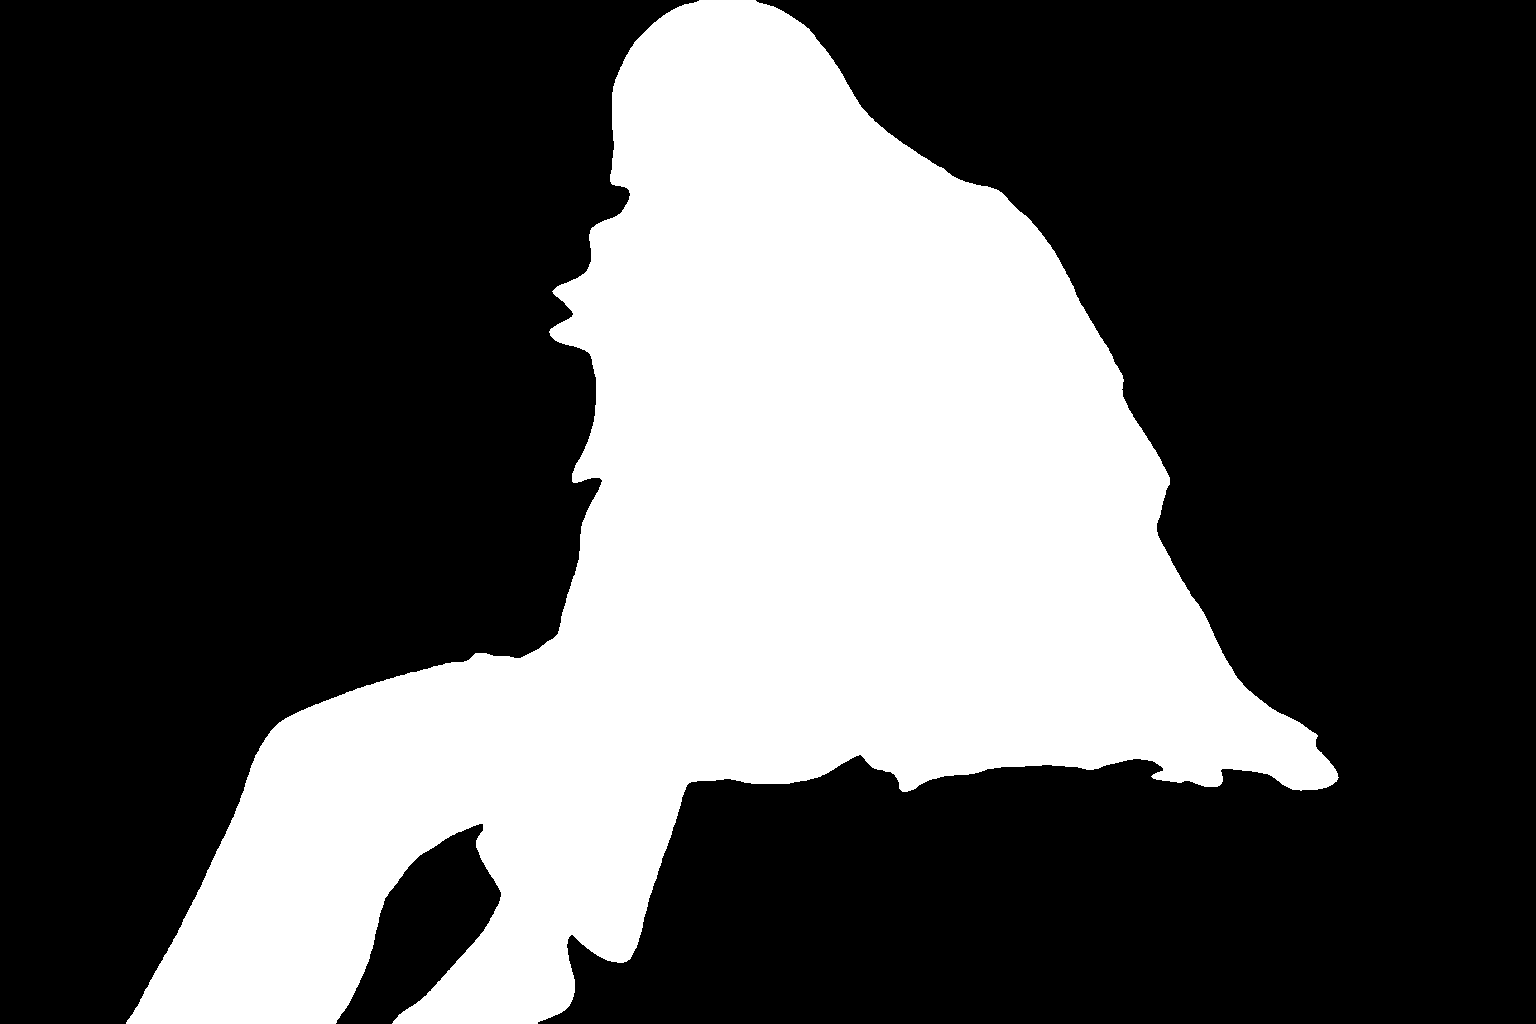
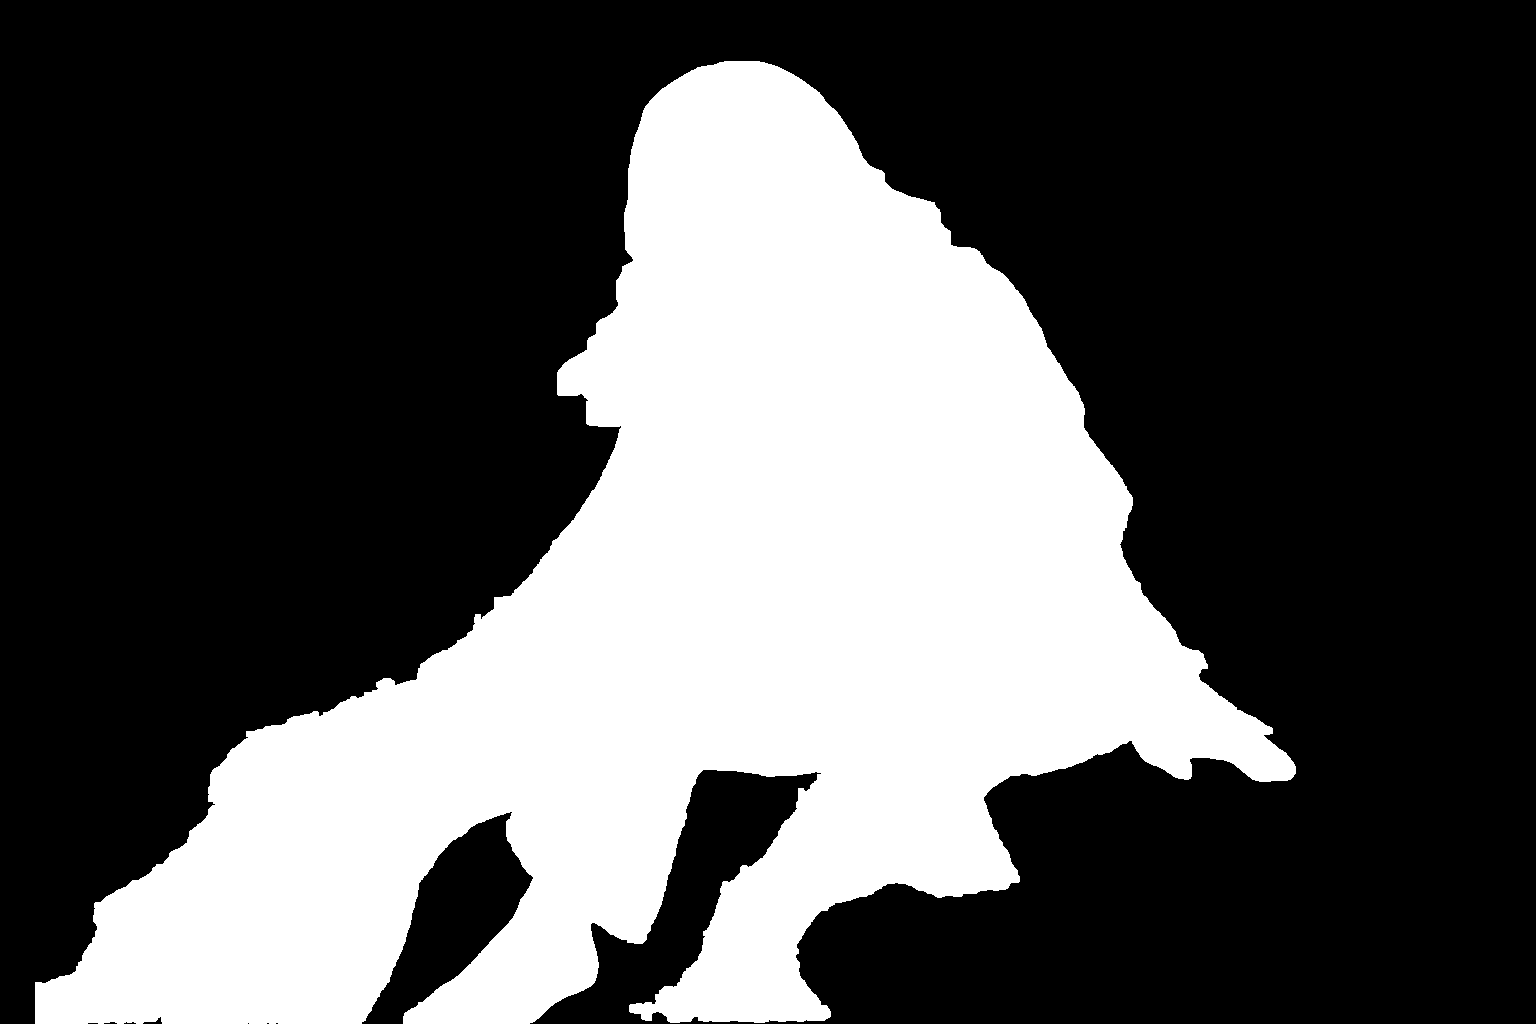
Improve level 19 headroom and align character mask

diff --git a/tests/opening.spec.ts b/tests/opening.spec.ts
@@ -10,9 +10,10 @@ for (const sample of [
   { level: 2, name: 'mummy hair and ears', edge: 26, points: [[740, 50], [710, 130], [850, 145]] },
   { level: 4, name: 'vampire white hair', edge: 14, points: [[520, 100], [570, 65], [615, 110]] },
   { level: 7, name: 'fox ears and hair', edge: 20, points: [[688, 42], [638, 145], [820, 90]] },
+  { level: 19, name: 'star throne figure', edge: 20, points: [[750, 120], [930, 500], [1200, 730], [510, 950]] },
 ]) {
   test(`${sample.name} stays sealed through an adjacent capture, pause and defeat`, async ({ page }) => {
-    await page.addInitScript(() => localStorage.setItem('linkblock.fenglin.levels', JSON.stringify({ version: 3, unlocked: 10, cleared: [] })));
+    await page.addInitScript(() => localStorage.setItem('linkblock.fenglin.levels', JSON.stringify({ version: 3, unlocked: 20, cleared: [] })));
     await page.route('**/src/main.ts*', async route => {
       const response = await route.fetch();
       await route.fulfill({ response, body: `${await response.text()}

diff --git a/src/faces.ts b/src/faces.ts
@@ -26,7 +26,7 @@ export const FACE_REGIONS = {
   'levels/16/v2/restored.webp': { imageWidth: 1536, imageHeight: 1024, x: 800, y: 0, width: 300, height: 300 },
   'levels/17/v2/restored.webp': { imageWidth: 1536, imageHeight: 1024, x: 850, y: 0, width: 400, height: 300 },
   'levels/18/v2/restored.webp': { imageWidth: 1536, imageHeight: 1024, x: 700, y: 0, width: 330, height: 300 },
-  'levels/19/v2/restored.webp': { imageWidth: 1536, imageHeight: 1024, x: 590, y: 0, width: 390, height: 320 },
+  'levels/19/v2/restored.webp': { imageWidth: 1536, imageHeight: 1024, x: 570, y: 65, width: 400, height: 330 },
   'levels/20/v2/restored.webp': { imageWidth: 1536, imageHeight: 1024, x: 690, y: 0, width: 260, height: 300 },
 } as const;
 
